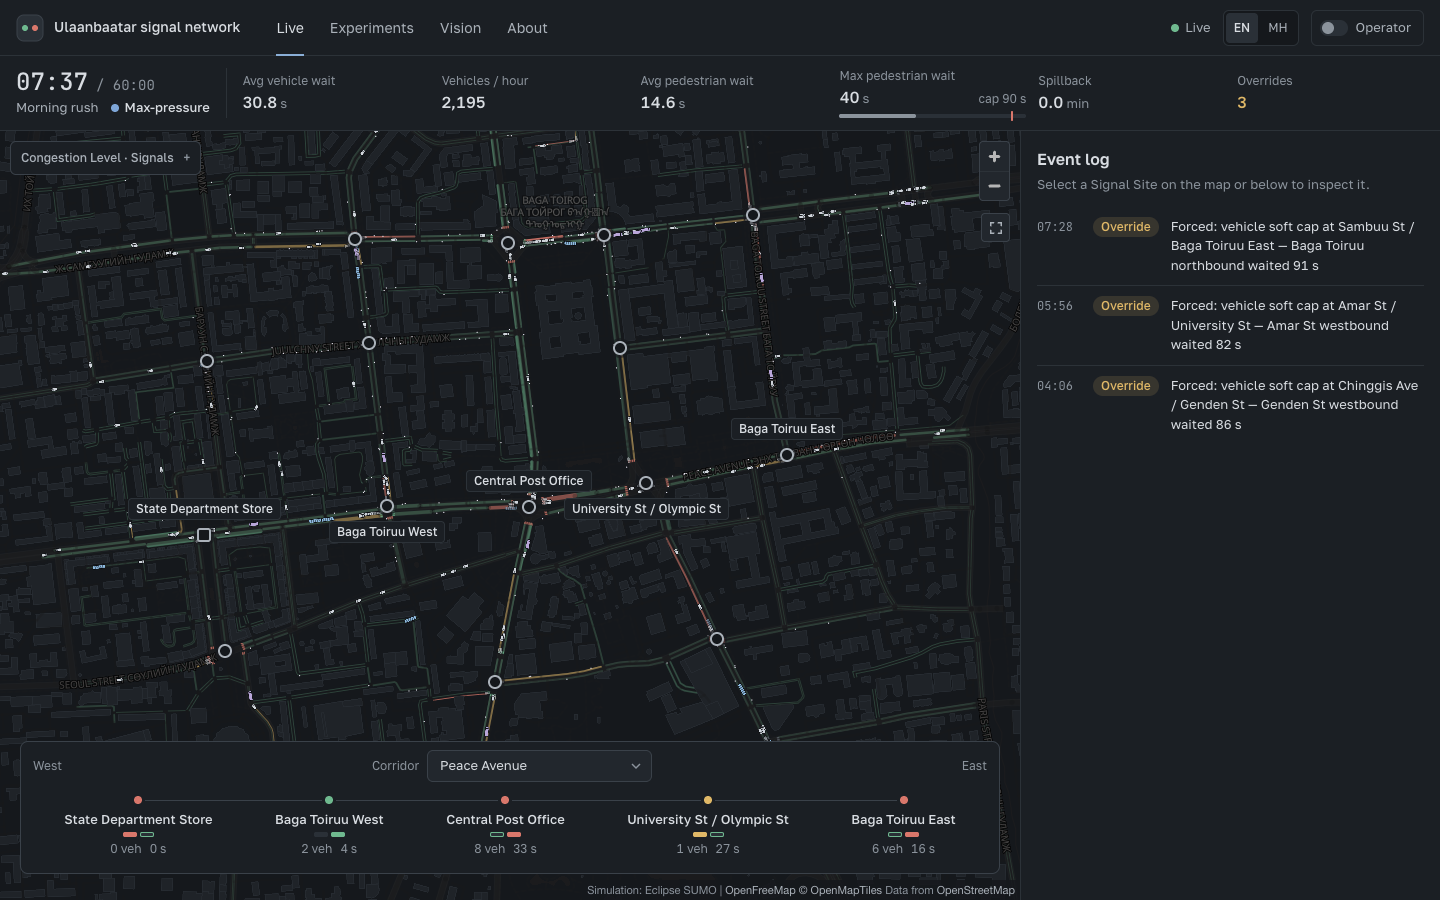
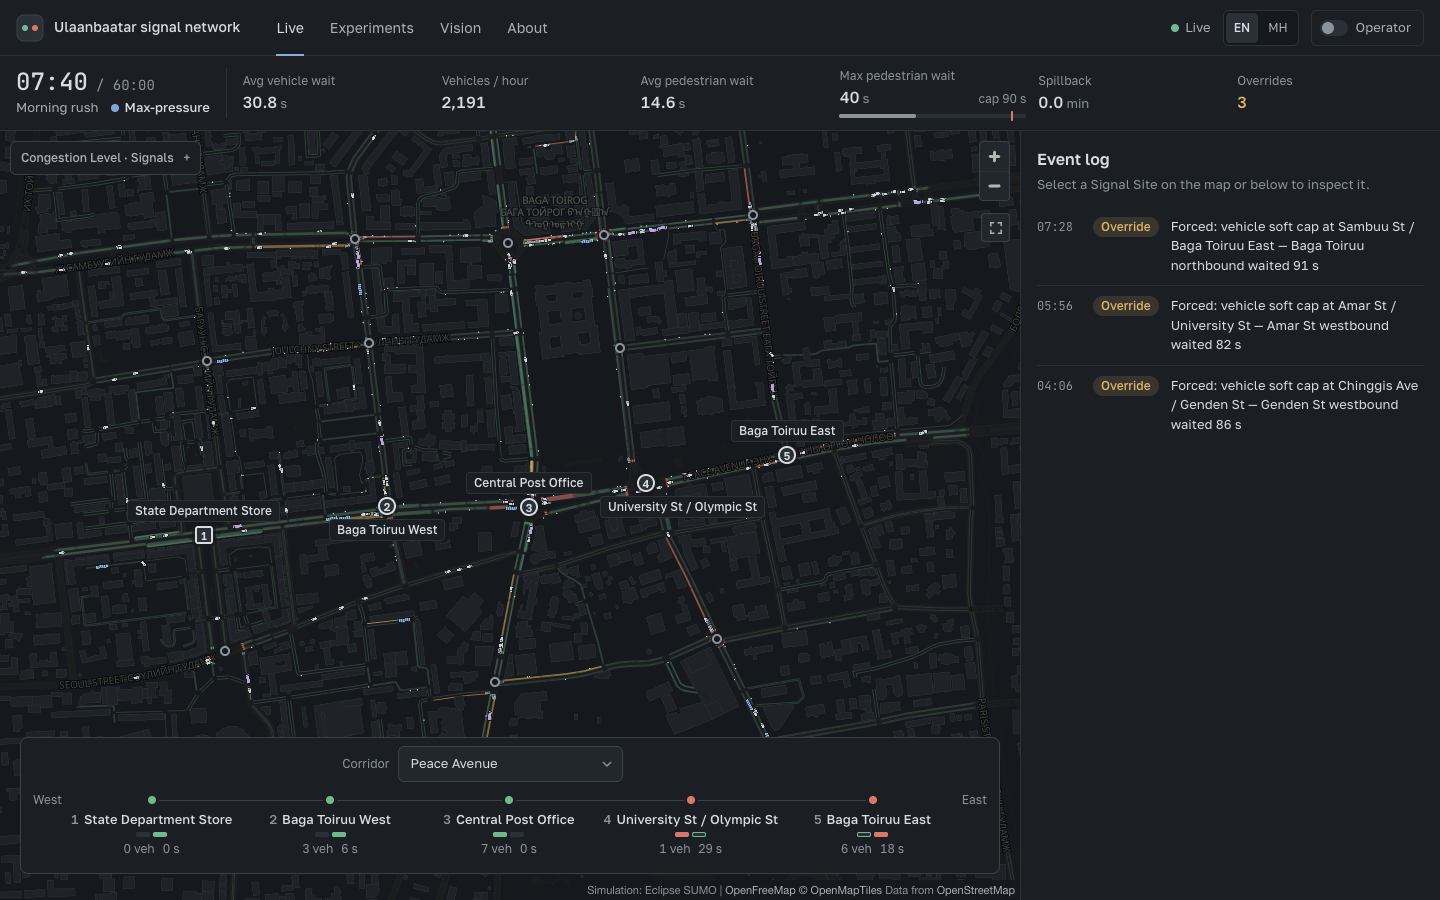
State the pedestrian cap as waiting for green

diff --git a/client/src/i18n/strings.ts b/client/src/i18n/strings.ts
@@ -194,9 +194,9 @@ const en = {
   aboutGuardBody:
     "No Controller ever sets a light. The Safety Guard approves, delays or replaces every proposal, and it alone changes signals. It enforces minimum green, amber, all-red and pedestrian clearance times, and every Override is logged with the rule that forced it.",
   aboutCapsTitle: "The caps",
-  aboutCapsPed: "Pedestrians never wait longer than {n} s (Hard Cap).",
+  aboutCapsPed: "Pedestrians: Hard Cap {n} s. The Safety Guard works to give green before anyone has gone that long without it.",
   aboutCapsSoft: "Vehicles: Soft Cap {n} s, extended while the Approach's exit has Spillback, because releasing cars into a full road blocks the junction.",
-  aboutCapsHard: "Vehicles: Hard Cap {n} s, never exceeded for any reason.",
+  aboutCapsHard: "Vehicles: Hard Cap {n} s. The Safety Guard works to give green before an Approach has gone that long without it.",
   aboutHonestTitle: "What this is not",
   aboutHonestBody:
     "It is a simulation, not a pilot on real signals. Demand is generated from Scenarios tuned to look plausible, so results compare Controllers with each other, not with reality. The camera page shows vision on recorded video; it does not feed the simulation.",
@@ -417,9 +417,9 @@ const mn: Dictionary = {
   aboutGuardBody:
     "Ямар ч удирдлага гэрлийг өөрөө асаадаггүй. Аюулгүй байдлын хамгаалалт санал бүрийг зөвшөөрөх, хойшлуулах эсвэл солих бөгөөд зөвхөн тэр гэрлийг сольдог. Хамгийн бага ногоон, шар, бүгд улаан, явган хүний чөлөөлөлтийн хугацааг мөрдүүлж, албадлага бүрийг ямар дүрмээр хийснийг бүртгэнэ.",
   aboutCapsTitle: "Хязгаарууд",
-  aboutCapsPed: "Явган хүн {n} секундээс удаан хүлээхгүй (хатуу хязгаар).",
+  aboutCapsPed: "Явган хүн: хатуу хязгаар {n} с. Аюулгүй байдлын хамгаалалт хэн ч ногоон гэрэлгүй ийм удаан хүлээхээс өмнө ногоон өгөхийг зорьдог.",
   aboutCapsSoft: "Машин: зөөлөн хязгаар {n} с; гарах зам түгжирсэн үед сунгагдана, учир нь дүүрсэн зам руу машин оруулбал уулзвар хаагдана.",
-  aboutCapsHard: "Машин: хатуу хязгаар {n} с, ямар ч шалтгаанаар давахгүй.",
+  aboutCapsHard: "Машин: хатуу хязгаар {n} с. Аюулгүй байдлын хамгаалалт аль ч чиглэл ногоон гэрэлгүй ийм удаан хүлээхээс өмнө ногоон өгөхийг зорьдог.",
   aboutHonestTitle: "Энэ юу биш вэ",
   aboutHonestBody:
     "Энэ бол симуляц, бодит гэрлэн дохион дээрх туршилт биш. Хөдөлгөөний ачааллыг бодитой харагдахаар тохируулсан сценариудаас үүсгэдэг тул үр дүн нь удирдлагуудыг хоорондоо харьцуулна, бодит байдалтай биш. Камерын хуудас бичлэг дээрх хараа харуулна; симуляцад өгөгдөл өгдөггүй.",

diff --git a/README.md b/README.md
@@ -1,6 +1,6 @@
 # Ulaanbaatar signal network
 
-An open-source demo of AI traffic-signal control in central Ulaanbaatar. It controls a Network of 15 Signal Sites on streets running east-west and north-south around Sükhbaatar Square: 14 Intersections and one Mid-block Crossing, at the State Department Store. Vehicles and pedestrians are simulated on real road geometry from OpenStreetMap. Controllers decide which Phase goes green, and a Safety Guard limits how long anyone waits.
+An open-source demo of AI traffic-signal control in central Ulaanbaatar. It controls a Network of 15 Signal Sites on streets running east-west and north-south around Sükhbaatar Square: 14 Intersections and one Mid-block Crossing, at the State Department Store. Vehicles and pedestrians are simulated on real road geometry from OpenStreetMap. Controllers decide which Phase goes green, and a Safety Guard limits how long anyone waits for green.
 
 Fourteen of the sites lie on eight Corridors:
 
@@ -46,17 +46,17 @@ These come from Experiment Mode: each Scenario runs for one hour, with the same 
 | Incident: lane blocked | 55.7 → 48.1 → 40.9 s | 67 → 100 → 50 s | 21.7 → 16.1 → 13.3 s | 63 → 64 → 76 s |
 | Pedestrian surge (event at the square) | 98.7 → 62.8 → 43.8 s | 67 → 99 → 46 s | 22.1 → 16.0 → 10.9 s | 63 → 71 → 73 s |
 
-"Longest Approach wait" is the longest time any Approach with a Queue went without green. One vehicle can need more than one green, so it is not the longest wait of a single vehicle.
+"Longest Approach wait" is the longest time any Approach with a Queue went without green. One vehicle can need more than one green, so it is not the longest wait of a single vehicle. "Max pedestrian wait" is likewise the longest time a waiting person went before green was offered. A person the crowd keeps from stepping off during that green stands longer, and the clock starts again (see Caps).
 
 - **RL** has the lowest average vehicle wait, the lowest average pedestrian wait and the shortest Longest Approach wait in every Scenario. Against the Baseline it cuts the average vehicle wait by 19% to 56% and the average pedestrian wait by 38% to 51%.
 - **Max-pressure** comes second on both averages in every Scenario: 10% to 36% lower for vehicles, 26% to 31% lower for pedestrians. Its Longest Approach wait is the worst of the three, 48% to 58% longer than the Baseline, and the Safety Guard's vehicle Soft Cap forces most of its Overrides.
-- **Both are worse than the Baseline on the longest pedestrian wait** in every Scenario: 64 to 72 s for Max-pressure and 70 to 79 s for RL, against 63 s.
+- **Both are worse than the Baseline on Max pedestrian wait** (the longest wait for green, not the longest time standing) in every Scenario: 64 to 72 s for Max-pressure and 70 to 79 s for RL, against 63 s.
 - **Throughput barely changes.** Vehicles served per hour stay within 1% of the Baseline except in the pedestrian surge (Max-pressure +2%, RL +4%). In the morning rush both serve slightly fewer (3,742 and 3,733 against 3,753).
 - **Some vehicles get stuck.** SUMO removes a vehicle that has not moved for 300 s and puts it back further on (a teleport). That happened to at most 25 of 3,966 vehicles in a run. RL has more teleports than the Baseline at midday (13 against 9), in the evening rush (25 against 7) and in the incident (20 against 15); Max-pressure has more in the evening rush (17 against 7) and the pedestrian surge (17 against 16).
 
-**Caps.** All 15 runs stayed within the Hard Caps of 90 s for pedestrians and 180 s for Approaches: the longest waits were 79 s and 106 s. A randomised search at the default caps also found no breach. That is evidence, not proof. With the Operator's pedestrian cap at its minimum of 45 s, a 3-Phase Signal Site can breach the vehicle Hard Cap: a wait of 192 s was measured, and a Phase without a Crosswalk can be starved.
+**Caps.** In all 15 runs the Safety Guard offered green within the Hard Caps of 90 s for pedestrians and 180 s for Approaches: the longest waits for green were 79 s and 106 s. A randomised search at the default caps also found no breach. That is evidence, not proof. Being offered green is not the same as getting across: in 3 of the 15 runs some people stood longer than 90 s at a Crosswalk, because the crowd did not clear in one green. They were 3 people in the incident with Fixed-time (up to about 125 s), and, depending on how standing is detected, 368 to 381 in the pedestrian surge with Fixed-time and 101 to 110 in the pedestrian surge with Max-pressure. In the surge runs the longest stands reach SUMO's 300 s jam limit, and some go past it. Average pedestrian wait restarts its clock in the same way. With the Operator's pedestrian cap at its minimum of 45 s, a 3-Phase Signal Site can breach the vehicle Hard Cap: a wait of 192 s was measured, and a Phase without a Crosswalk can be starved.
 
-**Earlier results.** Results published before the 15-site Network came from a sensor that saw waiting pedestrians at only one kerb of each Crosswalk, so the earlier claim that no pedestrian waited more than 90 s did not hold. A check of those 15 runs found 99 waits over 90 s in 14 of them, the longest 315 s where the metric said 71 s. Both kerbs are now sensed ([ledger](docs/specs/0001-street-network/factory.md)). The old numbers are for a different road network and must not be compared with this table.
+**Earlier results.** Results published before the 15-site Network came from a sensor that saw waiting pedestrians at only one kerb of each Crosswalk, so the earlier claim that no pedestrian waited more than 90 s did not hold. A check of those 15 runs counted people who stood over 90 s with the Crosswalk red the whole time, so crowding is not included: 99 cases in 14 runs, the longest 315 s where the metric said 71 s. Both kerbs are now sensed, and the same condition finds nobody in the 15 new runs ([ledger](docs/specs/0001-street-network/factory.md)). The old numbers are for a different road network and must not be compared with this table.
 
 **Spillback** is 0.0 lane-minutes in every run, so it is not in the table. The earlier non-zero figures came from the road import: junctions left unjoined had exit lanes 0.2 to 7.1 m long, where a single car counted as a full road (in the old run that was traced, evening rush with Max-pressure, all 45.4 minutes were on such lanes). Those junctions are now joined and the shortest exit lane is 16.6 m. An exit lane counts as Spillback when it is 75% full; across the 15 runs the fullest reading was 78%, and all such readings in a run together rounded to 0.0 minutes. Only the first road segment after a site is measured, so 0.0 does not mean there are no queues. It does mean these runs hardly exercise the parts of the Safety Guard and the Controllers that react to Spillback.
 

diff --git a/docs/specs/0001-street-network/reviews/r2-approval.md b/docs/specs/0001-street-network/reviews/r2-approval.md
@@ -1,0 +1,27 @@
+verdict: changes
+risk: human
+reasons:
+- Checked at efd3bbe by reading the spec, ledger, all seven reviews and the code diff, and by re-running all 15 committed runs (seed 42) plus 15 held-out runs (seed 7) with a per-person check that does not use the project's sensor; the tree is unchanged and the one server started (port 8139) was stopped.
+- The code delivers all 17 criteria as written: the 15 seed-42 runs reproduce the committed JSON to the digit, the net hash matches model and results (02b3baea), and `tsc` is clean with the three known lint warnings.
+- Blocking: the README says all 15 runs kept pedestrians within 90 s, but in 3 of the 15 committed runs people stood longer than 90 s at a Signal Site Crosswalk (up to 302 s); see required change 1.
+- This is not a Safety Guard breach: every one of those people was offered at least 21 s of green while standing and did not move (crowding, ended by SUMO's 300 s jam limit); the metric's clock stops when green is offered, so it reads 63 to 71 s.
+- The far-kerb fix is correct: every Crosswalk at all 15 sites now has two walking areas, no waiter headed for a site Crosswalk stood outside a sensed area in 30 runs, and nobody over 90 s went without green.
+- README honesty is otherwise sound (table and percentages match the JSON, Spillback 0.0 and the Operator-cap 192 s breach are disclosed, training on the same Scenarios is stated in sim/README.md); only the pedestrian claim and the "Earlier results" paragraph built on the same kind of check fail.
+- No blocker or major from the reviews is open: round 1 majors (2 ux, 4 ui) were re-tested as fixed in round 2; the minors left are listed in the review files and none was dismissed without a reason.
+- Weak evidence, AC10: pacing is solid (10.00x over 60 s here, 9.87x and 9.95x before), but the 60 fps figure is from Playwright's Chrome for Testing because system Chrome is not installed on this machine, and one of the two fps measurements counted callbacks, not drawn frames.
+- Weak evidence, AC6 and AC8: caps are judged by the project's own metric; on held-out seed 7 the metric stays within caps (pedestrian 73 s, Approach 106 s) but 5 of 15 runs have people standing over 90 s at a site Crosswalk, and Fixed-time arrival and teleports were not re-derived per criterion for that seed.
+- Weak evidence, AC16: grey signals are drawn by unchanged code, so "as today" holds, but they are near invisible in the screenshot and the wider area has more of them.
+- Weak evidence, AC12 and AC13: arrow keys in the native macOS select and the explanation text (no LLM key) were never exercised; Mongolian wording is unreviewed.
+- For the user, not required here: 19 to 53 pedestrians per ordinary run stand about 300 s on a 1.6 m living street (way 1323226370) 220 m from any site, a simulation jam the round-1 code review's "nobody over 90 s on any edge" missed.
+- For the user, not required here: README screenshots live-map.png and site-panel.png predate the numbered-pin fix (3bc3d82) and no longer show the shipped map.
+- For the user, pre-existing and disclosed: the vehicle Hard Cap can be breached with the Operator pedestrian cap at 45 s (192 s), 45 OSM turn restrictions are missing from the net, and the ledger holds an absolute home path that should go before any push.
+- Risk stays human: the risk script's flag stands (large diff, many files, Safety Guard file touched) and a published safety claim is wrong.
+required changes:
+- [major] README pedestrian-cap claim is contradicted by the committed runs
+  where: README.md "Caps" and "Earlier results" paragraphs and the "Max pedestrian wait" column; sim/corridor_sim/engine.py:299-300, 328-342
+  evidence: Per-person standing time (SUMO waiting time, next edge a site Crosswalk) on the committed seed-42 runs: incident with Fixed-time, 3 people at sambuu-baga-toiruu-east, longest 124.5 s, metric 63; pedestrian surge with Fixed-time, 368 people at tuv-shuudan, longest 301.5 s, metric 63; pedestrian surge with Max-pressure, 101 people at tuv-shuudan, longest 302.5 s, metric 71. In the other 12 runs the per-person figure equals the metric within 0.5 s. `_track_people` runs only while the Crosswalk is not served and `_finish_people` closes the wait when green is offered, so a person who cannot step off during green starts again from zero. The README applies a per-person check to the old runs ("99 waits over 90 s", "longest 315 s") and then says the new runs "stayed within the Hard Caps of 90 s for pedestrians"; by that same check 3 of the 15 do not, and some of the old 99 may be crowding too, not the unsensed kerb.
+  fix: Reword, do not touch the Guard. Define "Max pedestrian wait" under the table as the longest time a waiting person went before green was offered, as is done for "Longest Approach wait". In "Caps", say the Guard offered green within 79 s in all 15 runs, and that in 3 runs people still stood longer than 90 s because the crowd did not clear in one green, with the three figures above. In "Earlier results", keep the far-kerb finding but drop or split the 99 and 315 s figures unless they are re-counted with crowding separated. If a number is wanted in the JSON, add a per-person standing maximum beside `maxPedestrianWait` and rerun; that is optional.
+- [minor] About page still states the caps as absolutes
+  where: client/src/i18n/strings.ts:197, 199 and their Mongolian counterparts (`aboutCapsPed`, `aboutCapsHard`)
+  evidence: "Pedestrians never wait longer than {n} s" and "never exceeded for any reason" are shown in the app while the README of the same branch reports a 192 s Approach wait at Operator cap 45, and the runs above show people standing over 90 s at default caps. Round 1 code F2 raised it; it was left as an open text question.
+  fix: Say what the Guard does, in both languages: it forces a switch before the cap is reached (for example "Hard Cap {n} s: the Safety Guard forces green before it is reached"), matching the README wording. Mark the Mongolian for the user's check.

diff --git a/docs/specs/0001-street-network/factory.md b/docs/specs/0001-street-network/factory.md
@@ -2,8 +2,8 @@
 spec: docs/specs/0001-street-network/index.md
 branch: factory/street-network   worktree: ../smart-traffic-lights-factory-street-network (sibling of the main checkout)   base: feat/corridor-demo (local, unpushed, 9ada9d0)
 ship policy: none chosen (user asleep): no push, no PR, no merge; stop at a finished local branch
-stage: verify
-round: 0
+stage: approve
+round: 2
 pr:
 ## Log
 - 2026-11-24 preflight: origin/main holds only README.md, so the user chose to stack on local feat/corridor-demo; gh is authenticated; no repo rule files. The base branch must be pushed before a PR can target it.
@@ -30,3 +30,4 @@ pr:
 - 2026-11-24 incident: the code reviewer ran `pkill -f corridor_sim.server`, which killed the other reviewers' test servers. The user's three Docker containers are stopped; they finished at 02:50 UTC, before the first agent pkill (03:05 UTC), and no agent ran a Docker stop. Left as found.
 - 2026-11-24 fix round 1 (3bc3d82): client majors fixed; names take no pointer events and hide rather than cover a pin, Corridor pins numbered, schematic hull per site; builder reports 576 label states and 540 taps clean. Review round 2 started (ux, ui, code on the fix diff).
 - 2026-11-24 review round 2 (3bc3d82): ux pass, ui pass, code pass (minors listed in the review files). Security pass at round 1, no change since touches it.
+- 2026-11-24 approval round 1 (efd3bbe): changes. Required: README pedestrian-cap claim (3 of 15 runs had people standing over 90 s through crowding) and About cap wording. Fixed by rewording; the red-throughout check finds nobody over 90 s in all 15 new runs (longest 78 s); crowding counts given as ranges. Screenshots retaken.
